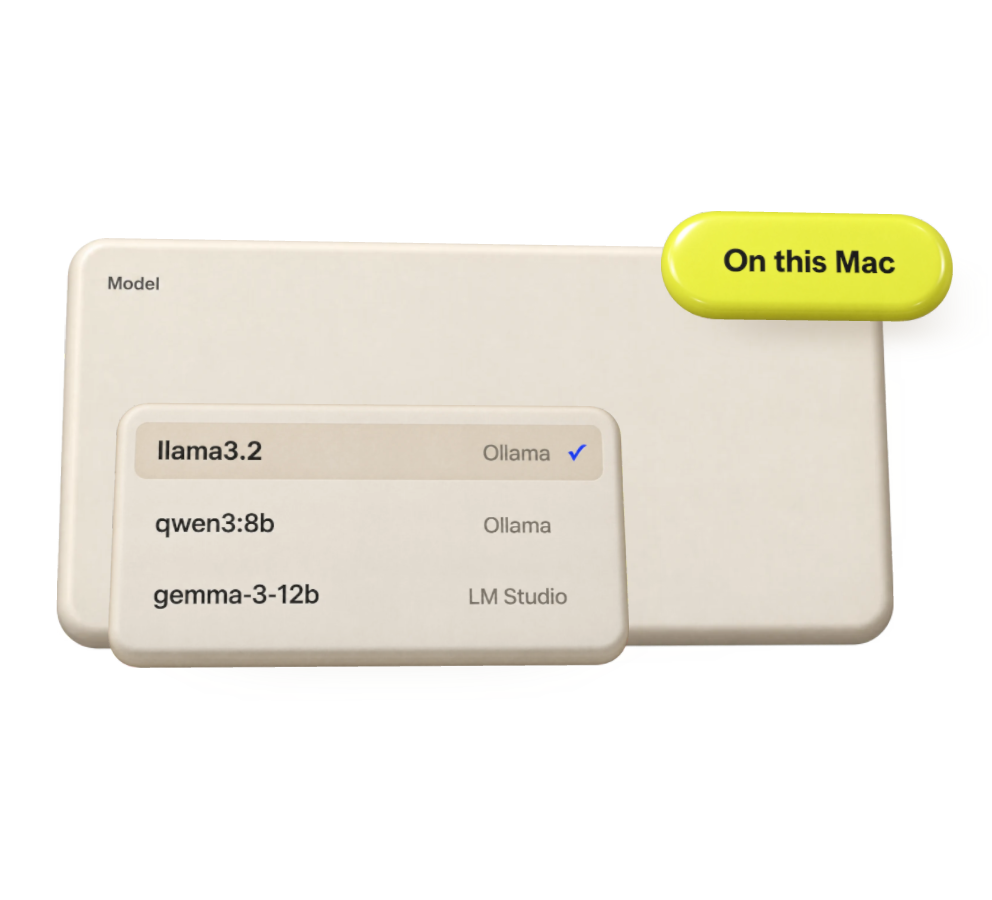
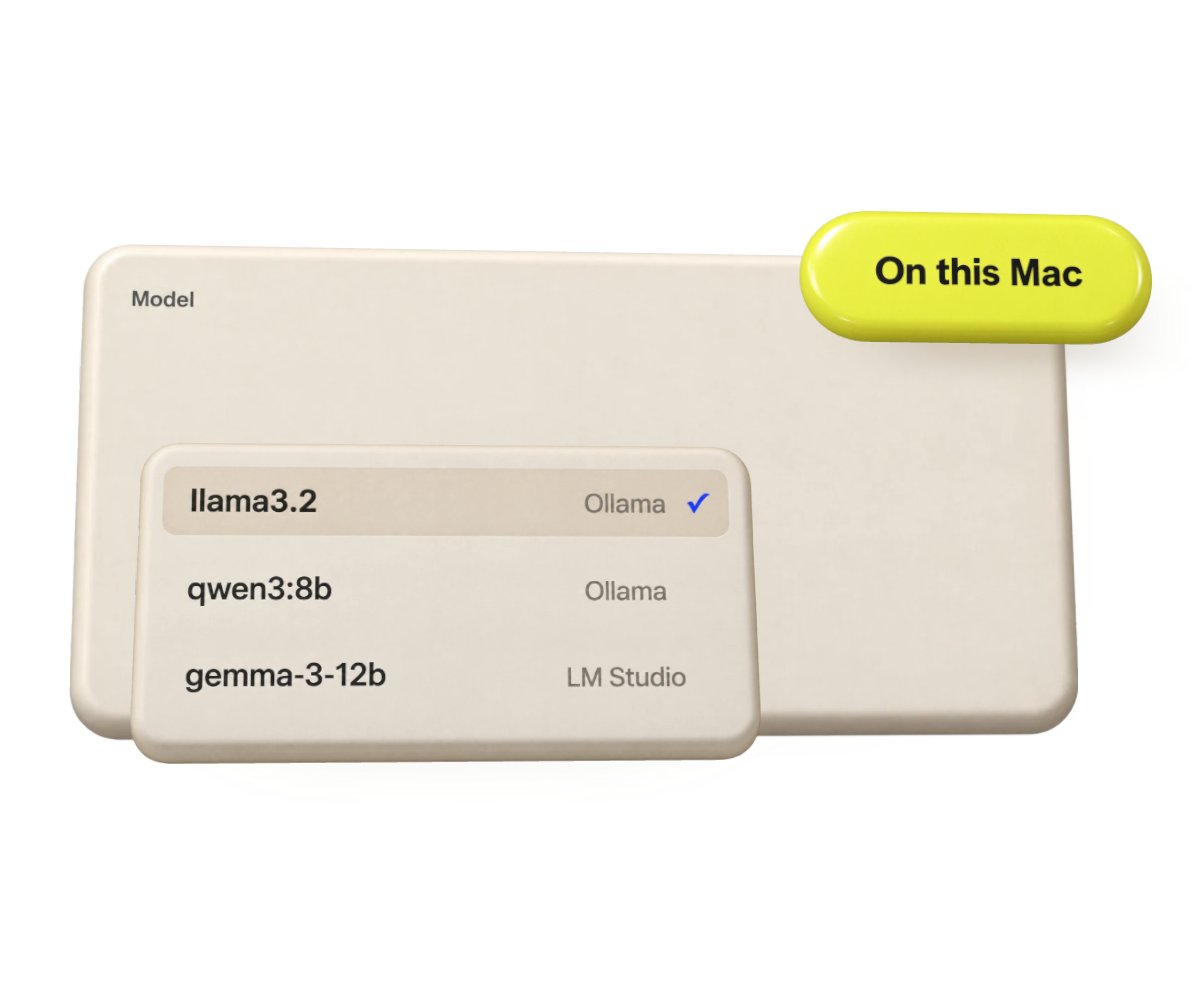
Carousel: shorter cards, hero-surface textures, stills that can't go stale
Cards are 2:1 instead of 16:9. Each gets a subtle crop of the hero tabletop
as its surface, flipped and tinted so no two match, under a soft diagonal
light. Stills move to img/slides/stills and are exported at the stage's
aspect, so still and live frame alike; if a slide's renders fail to load the
still stays and the canvas is removed, so the drawn tiles never show.

diff --git a/site/index.html b/site/index.html
@@ -112,12 +112,23 @@ section h2 { font-size: clamp(52px, 6.4vw, 84px); }
   overflow-x: auto; scroll-snap-type: x mandatory; scroll-padding-inline: var(--gutter); scrollbar-width: none; }
 .track::-webkit-scrollbar { display: none; }
 .track:focus-visible { outline-offset: -3px; }
-.slide { position: relative; aspect-ratio: 16 / 9; border-radius: 24px; background: #ECE2D1; overflow: hidden; scroll-snap-align: start; }
-.slide-stage { position: absolute; top: 0; right: 0; bottom: 0; width: 62%; }
+.slide { position: relative; aspect-ratio: 2 / 1; border-radius: 24px; background: #ECE2D1 center / cover no-repeat; overflow: hidden; scroll-snap-align: start; }
+.slide::before { content: ""; position: absolute; inset: 0; background: linear-gradient(118deg, rgba(255,250,240,.22), rgba(255,250,240,0) 45%, rgba(60,40,15,.07)); pointer-events: none; }
+#slide-shortcut { background-image: url(img/slides/bg/1.webp); }
+#slide-presets { background-image: url(img/slides/bg/2.webp); }
+#slide-proofread { background-image: url(img/slides/bg/3.webp); }
+#coach { background-image: url(img/slides/bg/4.webp); }
+#slide-local { background-image: url(img/slides/bg/5.webp); }
+#slide-instant { background-image: url(img/slides/bg/6.webp); }
+#slide-dictation { background-image: url(img/slides/bg/7.webp); }
+#slide-tone { background-image: url(img/slides/bg/8.webp); }
+#slide-languages { background-image: url(img/slides/bg/9.webp); }
+
+.slide-stage { position: absolute; top: 0; right: 0; bottom: 0; width: 60%; }
 .slide-stage > img { display: block; width: 100%; height: 100%; object-fit: contain; transition: opacity .5s ease; }
 .slide-stage canvas { position: absolute; inset: 0; }
 .slide-stage.live > img { opacity: 0; }
-.slide-copy { position: absolute; left: 5.5%; top: 50%; transform: translateY(-50%); width: 33%; }
+.slide-copy { position: absolute; left: 5.5%; top: 50%; transform: translateY(-50%); width: 32%; }
 .slide-copy .label { color: var(--ink); margin-bottom: 14px; }
 .slide-copy h3 { font: 700 clamp(30px, 3.4vw, 44px)/1 var(--display); margin: 0 0 14px; }
 .slide-copy p { font-size: clamp(16px, 1.5vw, 19px); line-height: 1.45; margin: 0; }
@@ -364,39 +375,39 @@ fill="currentColor" stroke="none">
     </div>
     <ol class="track" tabindex="0" aria-label="Features, scroll sideways or use the arrow keys">
         <li class="slide" id="slide-shortcut" aria-label="1 of 9: A shortcut in the app you're using">
-          <div class="slide-stage" data-scene="shortcut" data-sprites="img/slides/parts/shortcut"><img src="img/slides/shortcut.webp" width="992" height="900" alt="A message field with a rough Slack draft, the Control, Option and Space keys pressed above it, and the Slack message preset picked"></div>
+          <div class="slide-stage" data-scene="shortcut" data-sprites="img/slides/parts/shortcut"><img src="img/slides/stills/shortcut.webp" width="1200" height="1000" alt="A message field with a rough Slack draft, the Control, Option and Space keys pressed above it, and the Slack message preset picked"></div>
           <div class="slide-copy"><div class="label">Shortcut</div><h3>A shortcut in the app you're using</h3><p>The draft starts with your selection or the text in the field. Each app can have its own preset, picked automatically.</p></div>
         </li>
         <li class="slide" id="slide-presets" aria-label="2 of 9: Configured, personal style">
-          <div class="slide-stage" data-scene="presets" data-sprites="img/slides/parts/presets"><img src="img/slides/presets.webp" width="992" height="900" alt="The Slack message preset pulled out of the preset list, with its instruction, its Do rules and its Avoid rules on separate tiles" loading="lazy"></div>
+          <div class="slide-stage" data-scene="presets" data-sprites="img/slides/parts/presets"><img src="img/slides/stills/presets.webp" width="1200" height="1000" alt="The Slack message preset pulled out of the preset list, with its instruction, its Do rules and its Avoid rules on separate tiles" loading="lazy"></div>
           <div class="slide-copy"><div class="label">Presets</div><h3>Configured, personal style</h3><p>Set Do and Avoid rules, voice rules for every preset, and up to five examples of how you write.</p></div>
         </li>
         <li class="slide" id="slide-proofread" aria-label="3 of 9: Proofread, marked">
-          <div class="slide-stage" data-scene="proofread" data-sprites="img/slides/parts/proofread"><img src="img/slides/proofread.webp" width="992" height="900" alt="A proofread take with three fixes marked, reveiw to review, tommorow to tomorrow and its to it's, and the fixes floating beside it" loading="lazy"></div>
+          <div class="slide-stage" data-scene="proofread" data-sprites="img/slides/parts/proofread"><img src="img/slides/stills/proofread.webp" width="1200" height="1000" alt="A proofread take with three fixes marked, reveiw to review, tommorow to tomorrow and its to it's, and the fixes floating beside it" loading="lazy"></div>
           <div class="slide-copy"><div class="label">Proofread</div><h3>Proofread, marked</h3><p>Fixes spelling, grammar and punctuation, and keeps your words. Each fix is marked; when nothing needs fixing, Takes says so.</p></div>
         </li>
         <li class="slide" id="coach" aria-label="4 of 9: Write it better next time.">
-          <div class="slide-stage" data-scene="coach" data-sprites="img/slides/parts/coach"><img src="img/slides/coach.webp" width="992" height="900" alt="A draft with three flagged phrases and the English coach below it, its fixes lifted out: If you will send to If you send, until tomorrow to by tomorrow, make you a feedback to give you feedback" loading="lazy"></div>
+          <div class="slide-stage" data-scene="coach" data-sprites="img/slides/parts/coach"><img src="img/slides/stills/coach.webp" width="1200" height="1000" alt="A draft with three flagged phrases and the English coach below it, its fixes lifted out: If you will send to If you send, until tomorrow to by tomorrow, make you a feedback to give you feedback" loading="lazy"></div>
           <div class="slide-copy"><div class="label">English Coach</div><h3>Write it better next time.</h3><p>Turn on the English coach and it spots the mistakes your takes fix, notices the ones you repeat, and teaches them back with your own sentences.</p><p class="slide-note">Off until you turn it on. About 1,000 extra tokens per English draft; lessons are made on your Mac at no cost. Only the phrase around each mistake is kept, on your Mac, for 30 days.</p></div>
         </li>
         <li class="slide" id="slide-local" aria-label="5 of 9: A model on your Mac">
-          <div class="slide-stage" data-scene="local" data-sprites="img/slides/parts/local"><img src="img/slides/local.webp" width="992" height="900" alt="The model menu with llama3.2 from Ollama picked, and an On this Mac badge" loading="lazy"></div>
+          <div class="slide-stage" data-scene="local" data-sprites="img/slides/parts/local"><img src="img/slides/stills/local.webp" width="1200" height="1000" alt="The model menu with llama3.2 from Ollama picked, and an On this Mac badge" loading="lazy"></div>
           <div class="slide-copy"><div class="label">Local model</div><h3>A model on your Mac</h3><p>Use Ollama or LM Studio instead of Claude, and your drafts never leave the Mac.</p></div>
         </li>
         <li class="slide" id="slide-instant" aria-label="6 of 9: Right away">
-          <div class="slide-stage" data-scene="instant" data-sprites="img/slides/parts/instant"><img src="img/slides/instant.webp" width="992" height="900" alt="A pasted message in a field, a Pasted toast with Command Z to undo, and a yellow Return key" loading="lazy"></div>
+          <div class="slide-stage" data-scene="instant" data-sprites="img/slides/parts/instant"><img src="img/slides/stills/instant.webp" width="1200" height="1000" alt="A pasted message in a field, a Pasted toast with Command Z to undo, and a yellow Return key" loading="lazy"></div>
           <div class="slide-copy"><div class="label">Instant paste</div><h3>Right away</h3><p>Give a preset its own shortcut and it writes and pastes, no panel.</p></div>
         </li>
         <li class="slide" id="slide-dictation" aria-label="7 of 9: Say it">
-          <div class="slide-stage" data-scene="dictation" data-sprites="img/slides/parts/dictation"><img src="img/slides/dictation.webp" width="992" height="900" alt="A draft being dictated, with a blue waveform and a Dictating label" loading="lazy"></div>
+          <div class="slide-stage" data-scene="dictation" data-sprites="img/slides/parts/dictation"><img src="img/slides/stills/dictation.webp" width="1200" height="1000" alt="A draft being dictated, with a blue waveform and a Dictating label" loading="lazy"></div>
           <div class="slide-copy"><div class="label">Dictation</div><h3>Say it</h3><p>Dictate a draft. Speech stays on your Mac.</p></div>
         </li>
         <li class="slide" id="slide-tone" aria-label="8 of 9: Context and tone">
-          <div class="slide-stage" data-scene="tone" data-sprites="img/slides/parts/tone"><img src="img/slides/tone.webp" width="992" height="900" alt="A take replying to Any update on the launch, with a note that it may read as warm and polite" loading="lazy"></div>
+          <div class="slide-stage" data-scene="tone" data-sprites="img/slides/parts/tone"><img src="img/slides/stills/tone.webp" width="1200" height="1000" alt="A take replying to Any update on the launch, with a note that it may read as warm and polite" loading="lazy"></div>
           <div class="slide-copy"><div class="label">Context and tone</div><h3>Context and tone</h3><p>Add the message you're answering. See how each take may land.</p></div>
         </li>
         <li class="slide" id="slide-languages" aria-label="9 of 9: Your languages">
-          <div class="slide-stage" data-scene="languages" data-sprites="img/slides/parts/languages"><img src="img/slides/languages.webp" width="992" height="900" alt="The same take in German, Spanish and English, stacked" loading="lazy"></div>
+          <div class="slide-stage" data-scene="languages" data-sprites="img/slides/parts/languages"><img src="img/slides/stills/languages.webp" width="1200" height="1000" alt="The same take in German, Spanish and English, stacked" loading="lazy"></div>
           <div class="slide-copy"><div class="label">Languages</div><h3>Your languages</h3><p>Reply in any language, with a translate preset for each one you write in.</p></div>
         </li>
     </ol>
@@ -467,10 +478,10 @@ fill="currentColor" stroke="none">
     // Each slide's graphic is a live WebGL scene of separately rendered pieces; only the slides on screen keep one.
     const live = new Map(); let lib;
     const wake = async (slide) => { const st = slide.querySelector(".slide-stage"); if (!st || live.has(st)) return; live.set(st, null);
-      try { lib = lib || await import("./js/layers.js?v=6");
+      try { lib = lib || await import("./js/layers.js?v=7");
         if (!live.has(st)) return;
         live.set(st, lib.mount(st, st.dataset.scene, { interactive: true, sprites: st.dataset.sprites, onReady: () => st.classList.add("live") }));
-      } catch { live.delete(st); } };
+      } catch (err) { console.warn("layers: slide failed", st.dataset.scene, err); live.delete(st); } };
     const sleep = (slide) => { const st = slide.querySelector(".slide-stage"); const m = live.get(st); live.delete(st); m?.destroy(); st?.classList.remove("live"); };
     const near = new IntersectionObserver((es) => es.forEach((e) => (e.isIntersecting ? wake : sleep)(e.target)), { root: track, threshold: 0.15 });
     const section = new IntersectionObserver(([e]) => { if (e.isIntersecting) { slides.forEach((s) => near.observe(s)); section.disconnect(); } }, { rootMargin: "200px" });
@@ -483,7 +494,7 @@ fill="currentColor" stroke="none">
   if (el && "IntersectionObserver" in window) {
     const io = new IntersectionObserver(async ([e]) => {
       if (!e.isIntersecting) return; io.disconnect();
-      try { const { mount } = await import("./js/layers.js?v=6"); mount(el, el.dataset.scene, { interactive: true, sprites: el.dataset.sprites }); el.classList.add("live"); }
+      try { const { mount } = await import("./js/layers.js?v=7"); mount(el, el.dataset.scene, { interactive: true, sprites: el.dataset.sprites }); el.classList.add("live"); }
       catch { /* no WebGL or offline: keep the still */ }
     }, { rootMargin: "300px" });
     io.observe(el);

diff --git a/site/js/layers.js b/site/js/layers.js
@@ -381,7 +381,7 @@ export function mount(el, name, { interactive = false, exportMode = false, part 
       if (ring) { const tw = takes[0].userData.w, th = takes[0].userData.h; ring.userData.sprite.geometry.dispose(); // hug a take on every side
         ring.userData.sprite.geometry = new THREE.PlaneGeometry(tw * 1.045, th + tw * 0.045); ring.userData.sprite.renderOrder = 90; }
       ready = true; pose(1); renderer.render(scene, camera); canvas.style.opacity = "1"; onReady?.();
-    }).catch(() => { canvas.style.opacity = "1"; /* keep the drawn tiles */ });
+    }).catch((err) => { console.warn("layers: renders missing, keeping the still", name, err); canvas.remove(); });
   }
 
   if (exportMode) {

diff --git a/brand/campaign/HIGGSFIELD-KIT.md b/brand/campaign/HIGGSFIELD-KIT.md
@@ -75,6 +75,9 @@ cursor a little. The pieces themselves stay still. Pieces per scene are the name
   and lighting of the matching piece in the SECOND reference image … Seen straight on with a very slight top-down
   perspective. Keep all text word for word … Transparent background, no ground shadow, nothing else."
 - Post: `scripts/frame-render.sh part <render.png> site/img/slides/parts/<scene>/<piece>.webp`.
-- Stills: `STILLS="<scenes>" scripts/export-layers.sh` exports each live scene once (992 × 900), saved as
-  `site/img/slides/<scene>.webp`. The page shows it until the live scene loads, so the swap is seamless.
+- Stills: `STILLS="<scenes>" scripts/export-layers.sh` exports each live scene once (1200 × 1000, the stage's aspect),
+  saved as `site/img/slides/stills/<scene>.webp`. The page shows it until the live scene loads, so the swap is seamless;
+  if the renders fail to load, the still stays and the canvas is removed.
+- Card surfaces: `site/img/slides/bg/1–9.webp` are crops of the hero tabletop (`brand/hero/key-*.jpg`), flipped, tinted
+  and blended half into the card colour, one per slide, with a CSS gradient for the hero's diagonal light.
 - The page keeps a WebGL context only for slides on screen; the others are freed and fall back to their still.
